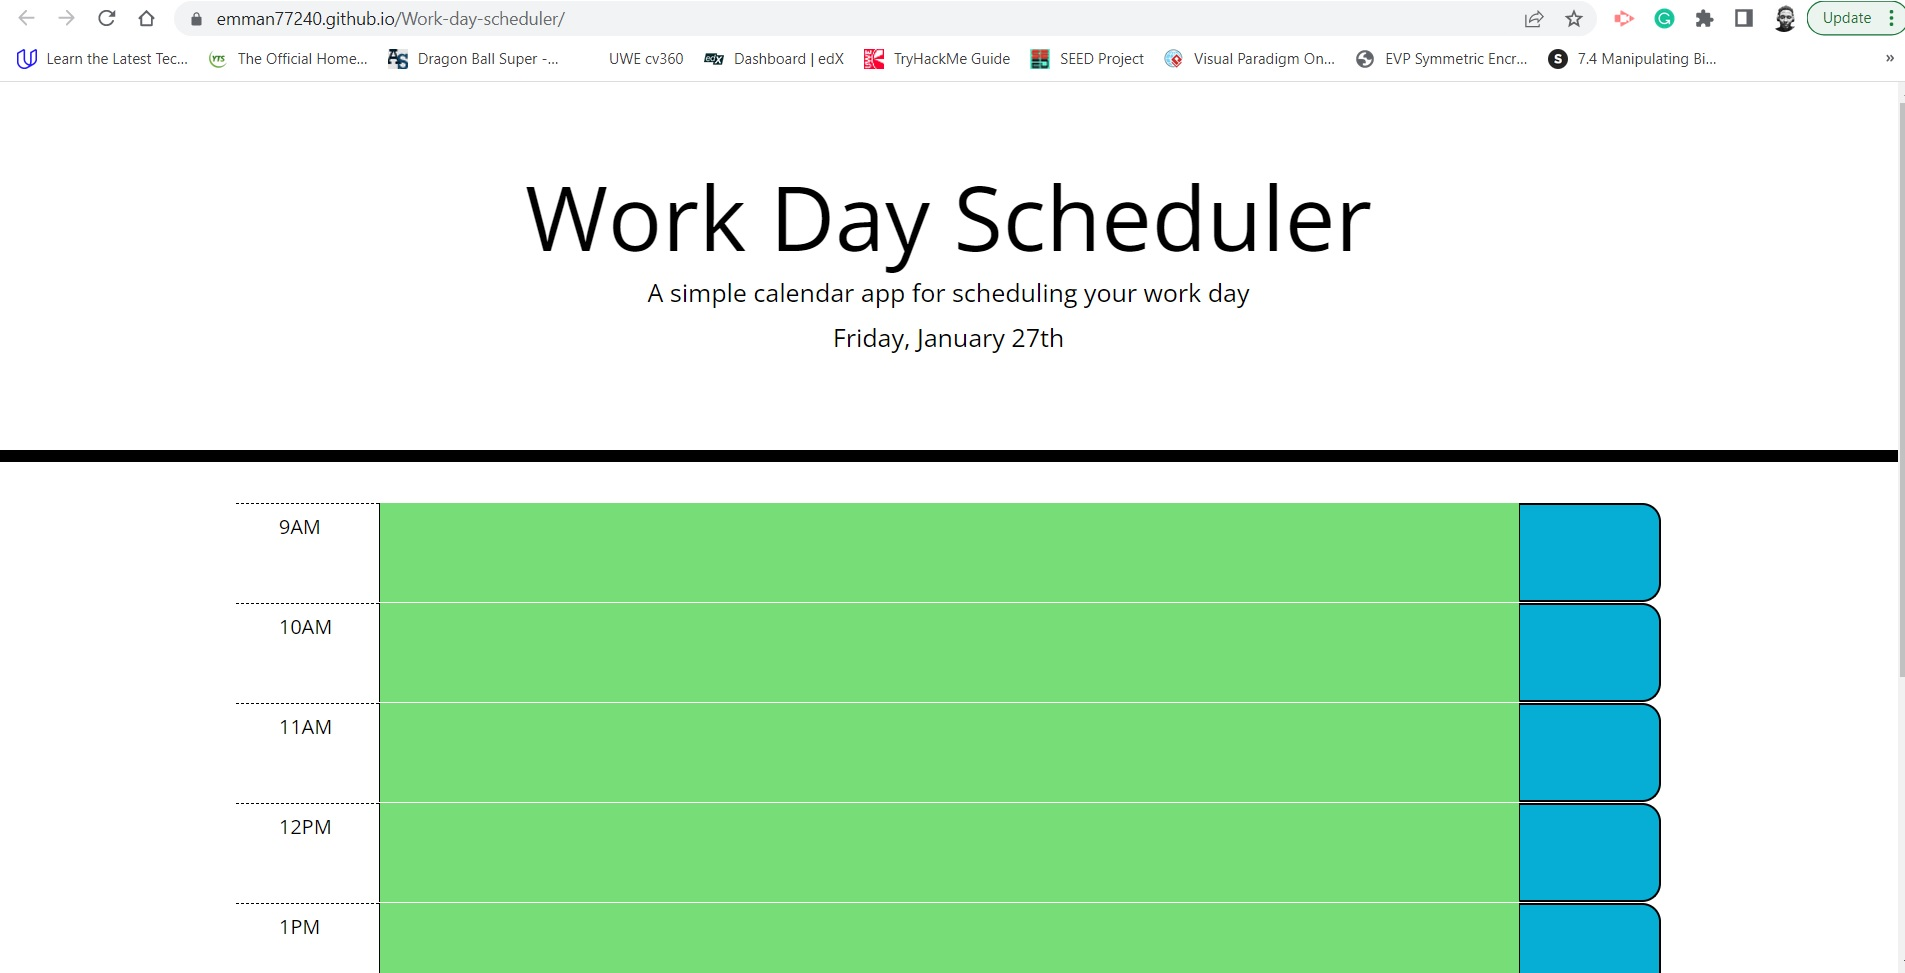
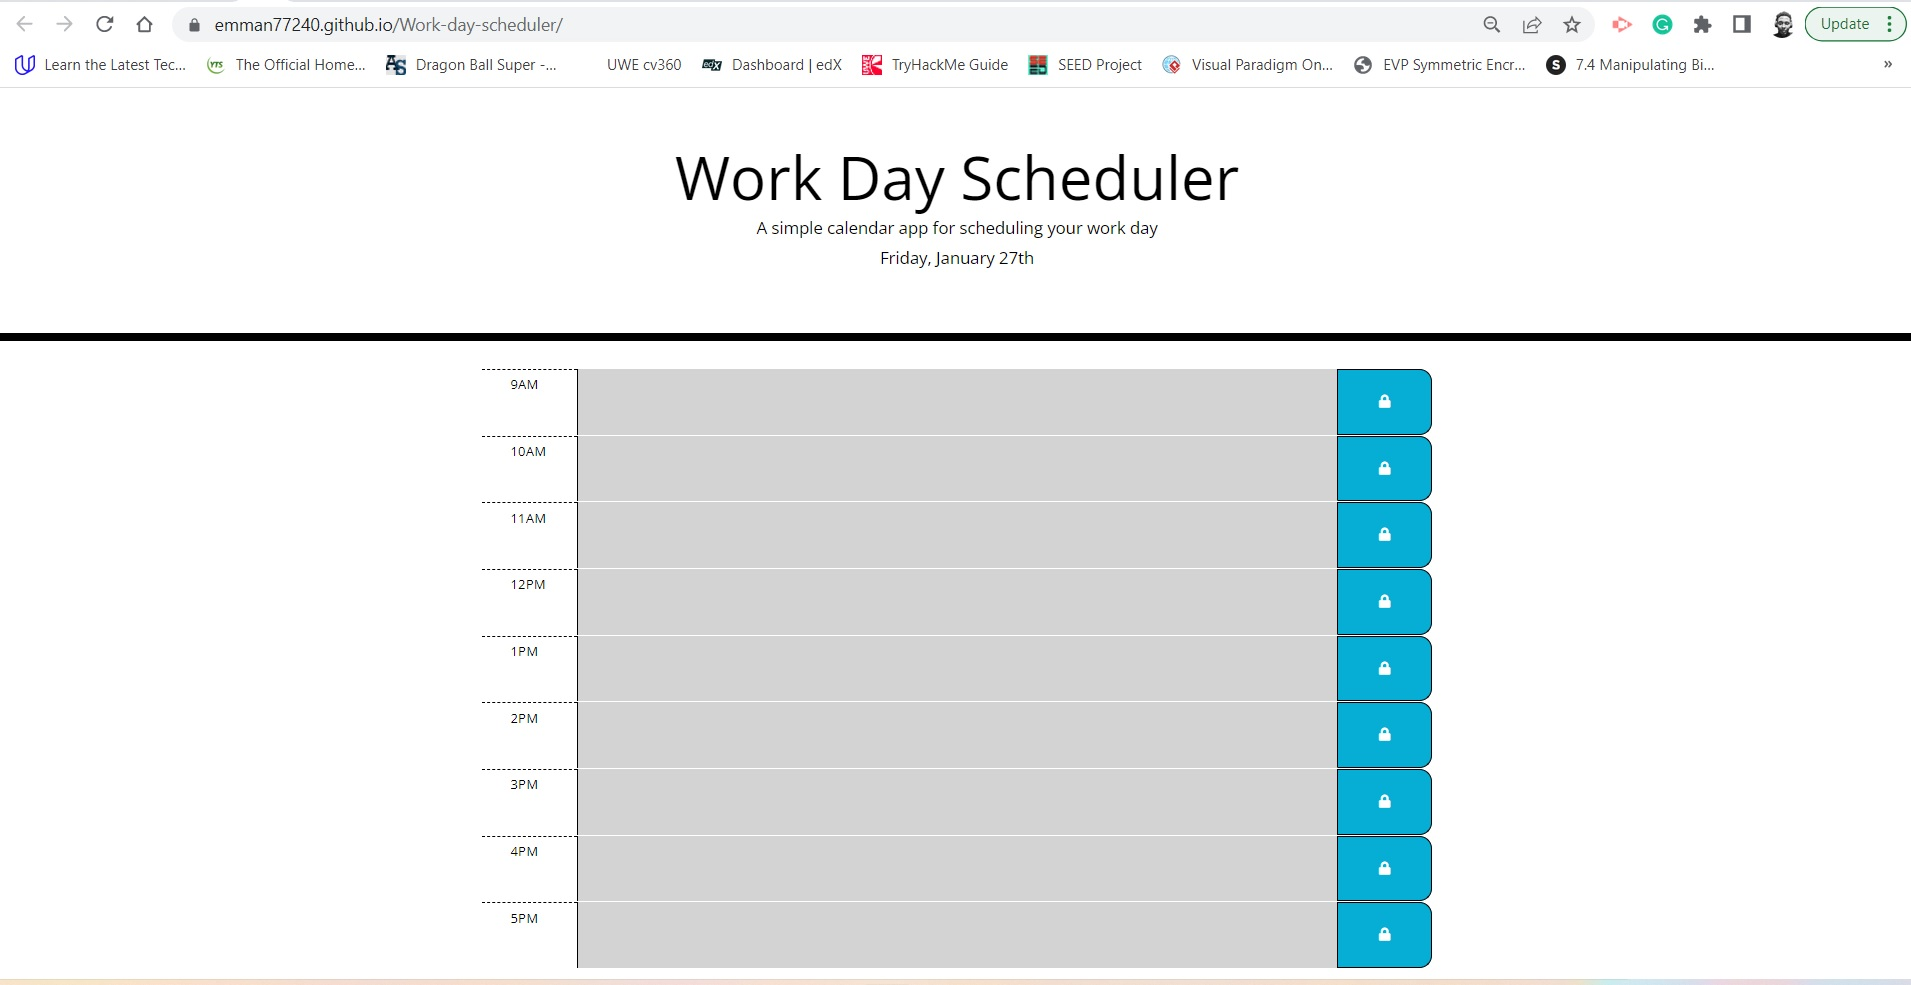
Added code to store items in local storage

diff --git a/assets/js/script.js b/assets/js/script.js
@@ -4,54 +4,90 @@ let newTime = 1;
 let timeCount = 1;
 let myClass = "row";
 
+// Initialize date and time with Moment.js 
+let currentHour = moment().format("H");
+let nowMoment = moment().format("dddd, MMMM Do");
+
 
 // Run once the page DOM is ready for js code to execute
 $(document).ready(function () {
 
+  // Initialize scheduler at the start of a new day
+  if(currentHour == 9) {
+
+    // Clear local storage
+    localStorage.clear();
+
+    // Set textarea to empty string
+    $("textarea").val("");
+
+    // Set work start time
+    startTime = 9;
+
+  }
+
+
+  // Set date on page
+  $("#currentDay").text(nowMoment);
+
+  // Create time block
+  for(let i = 0; i < 9; i++) {
+
     // Create time block
-    for(let i = 0; i < 9; i++) {
-        // Create time block
-        let timeBlock = "<div class=" + myClass + "><div class=" + "text" + timeCount + "></div><textarea></textarea><button><i></i></button></div>";
-        $(".container").append(timeBlock);
-        //$("textarea").addClass("future");
-        $(".text" + timeCount).addClass("hour");
-        $("i").addClass("fas fa-lock");
-        $("button").addClass("saveBtn");
-        timeCount++;
-    }
+    let timeBlock = "<div class=" + myClass + "><div class=" + "text" + timeCount + "></div><textarea></textarea><button><i></i></button></div>";
+    $(".container").append(timeBlock);
+    $(".text" + timeCount).addClass("hour");
+    $("i").addClass("fas fa-lock");
+    $("button").addClass("saveBtn");
+    timeCount++;
+  }
 
-    // Add time to time block
-    for(let i = 1; i < 10; i++) {
-        if(startTime < 12) {
-          $(".text" + i).attr("id", startTime).text(startTime + "AM");
-          startTime++;
-        } else if(startTime === 12) {
-          $(".text" + i).attr("id", startTime).text(startTime + "PM");
-          startTime++;
-        } else {
-          $(".text" + i).attr("id", startTime).text(newTime + "PM");
-          newTime++;
-          startTime++
-        }
-    }
+  // Add time to time block
+  for(let i = 1; i < 10; i++) {
+    if(startTime < 12) {
+      $(".text" + i).attr("id", startTime).text(startTime + "AM");
+      startTime++;
+    } else if(startTime === 12) {
+      $(".text" + i).attr("id", startTime).text(startTime + "PM");
+      startTime++;
+    } else {
+      $(".text" + i).attr("id", startTime).text(newTime + "PM");
+      newTime++;
+      startTime++
+     }
+  }
   
-    // Display date and time with Moment.js 
-    let nowMoment = moment().format("dddd, MMMM Do");
-    $("#currentDay").text(nowMoment);
-        
-    // Initialize current date
-    let currentHour = moment().format("H");
+  // Add colors to time blocks
+  $(".hour").each(function() {
     
-    // Add colors to time blocks
-    $(".hour").each(function() {
-      // Target time attribute in time blocks
-      let thisId = parseInt($(this).attr("id"));
+    // Target time attribute in time blocks
+    let thisId = parseInt($(this).attr("id"));
 
-      // Add styling to text areas according to time of day
-      if(thisId == currentHour) $(this).siblings("textarea").addClass("present").removeClass("past future");
-      if(thisId < currentHour) $(this).siblings("textarea").addClass("past").removeClass("present future");
-      if(thisId > currentHour) $(this).siblings("textarea").addClass("future").removeClass("past present");
-    
-    });
+    // Add styling to text areas according to time of day
+    if(thisId < currentHour) $(this).siblings("textarea").addClass("past").removeClass("present future");
+    if(thisId > currentHour) $(this).siblings("textarea").addClass("future").removeClass("past present");
+    if(thisId == currentHour) $(this).siblings("textarea").addClass("present").removeClass("past future");
     
   });
+
+  // Save values to local storage on click
+  $(".saveBtn").click(function (event) {
+    event.preventDefault();
+    let time = $(this).siblings(".hour").attr("id");
+    let value = $(this).siblings("textarea").val();
+    localStorage.setItem(time, value);
+    
+  });
+
+  // Retrieve values from local storage on page load
+  $(".hour").each(function() {
+
+    // Get id attribute
+    let thisId = parseInt($(this).attr("id"));
+
+    // Set textarea with stored value from local storage
+    $(this).siblings("textarea").val(localStorage.getItem(thisId));
+
+  });
+    
+});

diff --git a/assets/css/style.css b/assets/css/style.css
@@ -55,12 +55,12 @@ textarea {
 
 .present {
   background-color: #ff6961;
-  color: white;
+  
 }
 
 .future {
   background-color: #77dd77;
-  color: white;
+  
 }
 
 .saveBtn {
